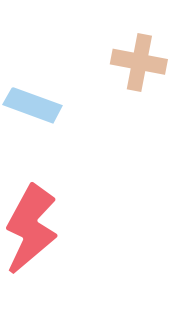
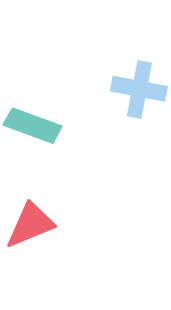
change sponsor shapes, edit reg page

Changed region(s): [[0.6433, 0.0871, 0.9942, 0.4065], [0.0292, 0.5806, 0.3509, 0.9], [0.0, 0.2613, 0.3801, 0.4645]]

diff --git a/public/css/custom.css b/public/css/custom.css
@@ -49,6 +49,10 @@
 	.margin-left-15 {
 		margin-left: 0 !important;
 	}
+
+  #titlePiece {
+    display: none;
+  }
 }
 
 @media screen and (max-width: 560px) {
@@ -296,6 +300,13 @@ body {
   width: 2em;
   margin-left: -1.1em;
   margin-top: -1.6em;
+  position: absolute;
+}
+
+#titlePiece2 {
+  width: 2.3em;
+  margin-left: -1.2em;
+  margin-top: -2.1em;
   position: absolute;
 }
 
